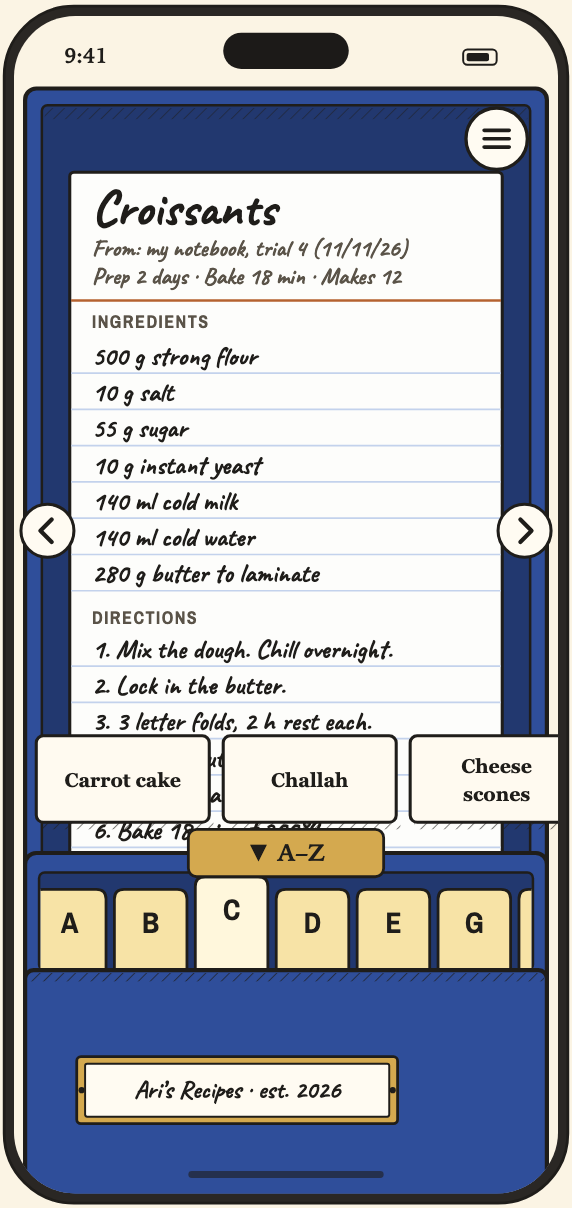
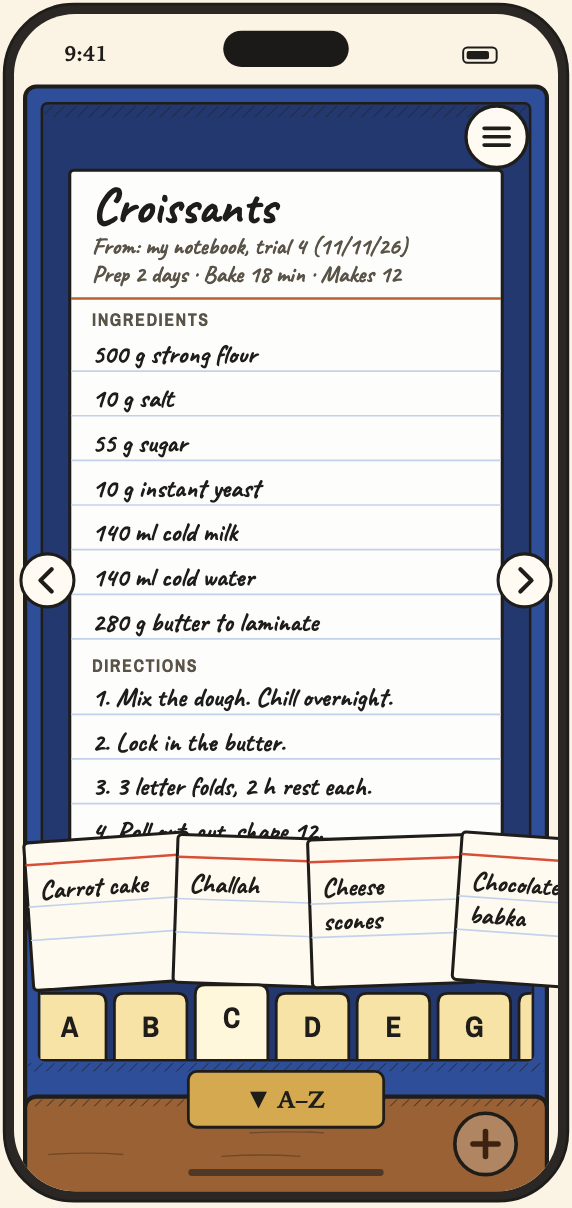
design: Phone Plate v3, drawer recipe box and plus button; decision 003 updated

diff --git a/design/phone/sections/02-box.html b/design/phone/sections/02-box.html
@@ -1,23 +1,18 @@
 <section id="pb-sec" aria-labelledby="h-pb">
   <span class="label" id="h-pb">02 · The recipe box on a phone</span>
   <div class="sec-body">
-    <h3>The box, retracted: three ways</h3>
-    <p class="note"><b>Ari's note on 003:</b> the open box was about half the screen with the tabs a quarter of it. Now the box is retracted by default and the lid card fills the screen. This changes decision 003 (tabs always showing). Every option has the new ‹ › arrows at the card's edges and the round wooden + above the pull (visible only in the retracted state). Top: retracted. Under each: pulled out.</p>
+    <h3>The box with a drawer</h3>
+    <p class="note"><b>The drawer is the pick (Ari, 11/17).</b> The lid card fills the screen, with ‹ › arrows at its edges for the previous and next card. A short strip of brown wood sits at the bottom with the brass "▲ A–Z" pull and a small round wooden + for a new recipe. This changes decision 003: the tabs are not always showing, and the + sits in the strip, not over the card. Swipe up or tap the pull to bring the tabs out; the tabs say what the box is, so there is no label.</p>
     <div class="pbo">
-      <div><h3>1 · Drawer</h3><figure id="pb-o1"></figure><p class="note"><b>The body slides out of sight.</b> Only a wooden lip with a brass pull "▲ A–Z" peeks up. Swipe up or tap it.</p>
-        <h3>1 · pulled out</h3><figure id="pb-o1-out" class="pbsm"></figure><p class="note">The body is about a quarter of the screen; tabs in one sideways-scrolling row.</p><p class="addr">/box/croissants</p></div>
-      <div><h3>2 · Tab strip</h3><figure id="pb-o2"></figure><p class="note"><b>One thin row of letter tabs</b> along the bottom, scrolling sideways. No box front at all.</p>
-        <h3>2 · a letter tapped</h3><figure id="pb-o2-out" class="pbsm"></figure><p class="note">Tap C and the fan rises over the lid; the + hides.</p><p class="addr">/box/croissants</p></div>
-      <div><h3>3 · Handle</h3><figure id="pb-o3"></figure><p class="note"><b>Just a small wooden tab</b> "Recipes ▲", centred at the bottom edge.</p>
-        <h3>3 · pulled up</h3><figure id="pb-o3-out" class="pbsm"></figure><p class="note">A sheet with the fan and the two staggered tab rows rises from the handle.</p><p class="addr">/box/croissants</p></div>
+      <div><h3>Tucked away</h3><figure id="pb-o1"></figure><p class="addr">/box/croissants</p></div>
+      <div><h3>Pulled out</h3><figure id="pb-o1-out"></figure><p class="addr">/box/croissants</p><p class="note">One row of short tabs scrolls sideways. The + stays in the brown strip under the tabs.</p></div>
     </div>
-    <ol class="qs"><li><b>Question for Ari:</b> Retracting box: 1, 2 or 3?</li></ol>
 
     <div class="phones">
       <div><h3>Add a recipe: the +</h3><figure id="pb-add"></figure><p class="addr">/box/croissants</p>
-        <p class="note"><b>The + opens a small menu with three choices.</b> Wording set 1 (drawn): "Type it in / From a web address / Scan a card". Wording set 2: "Write it / Paste a link / Photograph a card". Ari isn't committed to the words.</p></div>
+        <p class="note"><b>The + in the brown strip opens a small menu that rises from it, with three choices.</b> Wording set 1 (drawn): "Type it in / From a web address / Scan a card". Wording set 2: "Write it / Paste a link / Photograph a card". Ari isn't committed to the words.</p></div>
       <div><h3>Fan, with the drawer pulled out</h3><figure id="pb-fan"></figure><p class="addr">/box/croissants</p>
-        <p class="note"><b>Tab C tapped.</b> Title-only cards rise above the tabs and scroll sideways; the open tab is lifted; the lid is not dimmed and the + is hidden. Tap the tab again to close.</p></div>
+        <p class="note"><b>Tab C tapped.</b> Small index cards fan up from behind the tabs, slightly overlapping, and scroll sideways. The tabs keep their short height; the open tab lifts a few pixels and turns cream. The lid is not dimmed. Tap the tab again to close.</p></div>
       <div><h3>The ☰ menu</h3><figure id="pb-menu"></figure><p class="addr">/box/croissants</p>
         <p class="note"><b>Plain body font</b> (Ari's note: no handwriting in the menu). Sections: your name, Add recipe, View (Simple list), Sign out.</p></div>
       <div><h3>Simple list</h3><figure id="pb-simple"></figure><p class="addr">/box/croissants</p>
@@ -38,9 +33,9 @@
     </div>
   </div>
 </section>
-<style>.pbo{display:grid;gap:18px;grid-template-columns:repeat(3,minmax(0,1fr));align-items:start}.pbo>div,.pbcv>div,.pbah>div,.pba{display:grid;gap:6px;align-content:start;min-width:0}.pbsm{max-width:62%}
+<style>.pbo{display:grid;gap:18px;grid-template-columns:repeat(2,minmax(0,1fr));align-items:start;max-width:620px}.pbo>div,.pbcv>div,.pbah>div,.pba{display:grid;gap:6px;align-content:start;min-width:0}
 .pbcv{display:grid;gap:22px;grid-template-columns:minmax(0,1fr) minmax(0,3fr);align-items:start}.pbah{display:grid;gap:18px;grid-template-columns:minmax(0,1fr) minmax(0,2fr);align-items:start}.pbcv figure,.pbo figure{border:0;background:none}
-@media(max-width:900px){.pbcv,.pbah,.pbo{grid-template-columns:minmax(0,1fr)}.pbsm{max-width:100%}}</style>
+@media(max-width:900px){.pbcv,.pbah,.pbo{grid-template-columns:minmax(0,1fr)}}</style>
 <script>
 (function () {
   var CR = { t: "Croissants", src: "From: my notebook, trial 4 (11/11/26)", meta: "Prep 2 days · Bake 18 min · Makes 12",
@@ -61,7 +56,7 @@
   function pl(x, y, w, h, t, fs) { return R(x, y, w, h, "var(--card)", 2.2, h / 2) + T(x + w / 2, y + h / 2 + fs * 0.33, t, H(fs, 700), MID); }
 
   function U(sz, w, col) { return "font:" + (w || 400) + " " + sz + "px var(--font-body);fill:" + (col || "var(--ink)"); }
-  function plus(cx, cy) { return hatch(cx - 18, cy + 20, 40, 6, 0.5) + reg("circle", 'cx="' + cx + '" cy="' + cy + '" r="26"', "var(--wood)", 2.6) + line("M" + (cx - 11) + " " + cy + " h22 M" + cx + " " + (cy - 11) + " v22", 4.4, 1, "#fff7dc"); }
+  function plus(cx, cy) { return reg("circle", 'cx="' + cx + '" cy="' + cy + '" r="22"', "var(--wood-hi)", 2.6) + line("M" + (cx - 9) + " " + cy + " h18 M" + cx + " " + (cy - 9) + " v18", 4, 1, "#3c2210"); }
   function arrows(y) { return [[24, -1], [366, 1]].map(function (a) { return reg("circle", 'cx="' + a[0] + '" cy="' + y + '" r="19"', "var(--card)", 2.2) + line("M" + (a[0] - 3 * a[1]) + " " + (y - 8) + " l" + (8 * a[1]) + " 8 l" + (-8 * a[1]) + " 8", 3); }).join(""); }
   function lidCard(cb, pitch) {
     var x0 = 40, x1 = 350, top = 112, xl = 56, body = "", s = R(x0, top, x1 - x0, cb - top, "var(--page)", 2.2), y;
@@ -82,26 +77,22 @@
       T((x + TW / 2).toFixed(1), y + (front ? 29 : 31), LET[i], "font:700 21px var(--font-label);fill:var(--ink)", MID);
   }
   function stag(open, yb, yf) { var s = "", i; for (i = 1; i < LET.length; i += 2) s += tab(i, 0, 0, yb, yf); for (i = 0; i < LET.length; i += 2) s += i === open ? tab(i, 9, true, yb, yf) : tab(i, 0, 0, yb, yf); return s; }
-  function row(y, open, w) { var s = ""; w = w || 52; LET.forEach(function (c, i) { var x = 14 + i * (w + 6), t = i === open ? 9 : 0;
-    s += reg("path", 'd="M' + x + " " + (y + 90) + " V" + (y + 7 - t) + " q0 -7 7 -7 h" + (w - 14) + " q7 0 7 7 V" + (y + 90) + ' Z"', i === open ? "#fff7dc" : "var(--custard)", 2) + T(x + w / 2, y + 31 - t, c, "font:700 21px var(--font-label);fill:var(--ink)", MID); }); return s; }
+  function row(y, open, w) { var s = ""; w = w || 52; LET.forEach(function (c, i) { var x = 14 + i * (w + 6), t = i === open ? 6 : 0;
+    s += reg("path", 'd="M' + x + " " + (y + 48) + " V" + (y + 7 - t) + " q0 -7 7 -7 h" + (w - 14) + " q7 0 7 7 V" + (y + 48) + ' Z"', i === open ? "#fff7dc" : "var(--custard)", 2) + T(x + w / 2, y + 31 - t, c, "font:700 21px var(--font-label);fill:var(--ink)", MID); }); return s; }
   function chips(y) {
     var s = "";
-    C_CARDS.forEach(function (t, k) { var x = 16 + k * 134, w = t.split(" "), l1 = t, l2 = "";
+    C_CARDS.forEach(function (t, k) { var x = 14 + k * 100, w = t.split(" "), l1 = t, l2 = "", rot = [-4, 2, -2, 4, -3, 3][k % 6];
       if (t.length > 11 && w.length > 1) { l1 = w[0]; l2 = w.slice(1).join(" "); if (w.length > 2) { l1 = w[0] + " " + w[1]; l2 = w[2]; } }
-      s += hatch(x + 3, y + 62, 124, 5, 0.6) + R(x, y, 124, 62, "#fffaf0", 2.2, 5) + T(x + 62, y + (l2 ? 27 : 37), l1, "font:600 14px Georgia,serif;fill:var(--ink)", MID) + (l2 ? T(x + 62, y + 47, l2, "font:600 14px Georgia,serif;fill:var(--ink)", MID) : ""); });
+      s += '<g transform="rotate(' + rot + " " + (x + 59) + " " + (y + 104) + ')">' + hatch(x + 3, y + 3, 118, 104, 0.35) + R(x, y, 118, 106, "#fffaf0", 2.2, 3) + line("M" + (x + 1) + " " + (y + 16) + " H" + (x + 117), 1.8, 0.9, RED) +
+        line("M" + (x + 1) + " " + (y + 46) + " H" + (x + 117), 1.2, 1, RULE) + line("M" + (x + 1) + " " + (y + 70) + " H" + (x + 117), 1.2, 1, RULE) +
+        T(x + 9, y + 41, l1, H(19, 700)) + (l2 ? T(x + 9, y + 65, l2, H(19, 700)) : "") + "</g>"; });
     return s;
   }
-  function pull(cx, cy, w, t) { return R(cx - w / 2, cy - 17, w, 34, "var(--brass)", 2, 6) + T(cx, cy + 6, t, U(17, 700), MID); }
-  function lip() { return R(8, 726, 374, 140, "var(--wood)", 3, 8) + grain(14, 740, 360, 60, 3) + hatch(10, 728, 370, 5, 0.6) + pull(195, 728, 140, "▲ A–Z"); }
-  function drawerOut(open) { var y0 = 600;
-    return R(8, y0, 374, 260, "var(--blue)", 3, 8) + R(18, y0 + 14, 354, 70, "var(--blue-back)", 1.8, 4) + clipTo(19, y0 + 15, 371, y0 + 83, row(y0 + 26, open, 52)) +
-      R(8, y0 + 84, 374, 180, "var(--blue)", 3, 6) + hatch(10, y0 + 86, 370, 6, 0.7) + pull(195, y0, 140, "▼ A–Z") + brassLabel(160, 770, 230, 48, "Ari’s Recipes · est. 2026", 18) + (open == null ? plus(345, 770) : ""); }
-  function strip(open) { return R(8, 706, 374, 160, "var(--blue-back)", 3, 8) + hatch(10, 708, 370, 5, 0.6) + clipTo(9, 709, 381, 844, row(722, open, 46).replace(/M(\d+)/g, "M$1")); }
-  function handle() { return reg("path", 'd="M120 812 V772 q0 -10 10 -10 h130 q10 0 10 10 V812 Z"', "var(--wood)", 2.6) + grain(124, 770, 142, 36, 9) + T(195, 794, "Recipes ▲", U(18, 700, "#fff7dc"), MID); }
-  function sheet() { var y0 = 470;
-    return R(8, y0, 374, 400, "var(--blue)", 3, 14) + R(18, y0 + 18, 354, 206, "var(--blue-back)", 1.8, 4) + clipTo(19, y0 + 19, 371, y0 + 223, chips(y0 + 30)) + stag(2, y0 + 126, y0 + 170) +
-      R(8, y0 + 218, 374, 180, "var(--blue)", 3, 6) + hatch(10, y0 + 220, 370, 6, 0.7) + reg("path", 'd="M120 ' + (y0 + 14) + ' V' + (y0 - 22) + ' q0 -10 10 -10 h130 q10 0 10 10 V' + (y0 + 14) + ' Z"', "var(--wood)", 2.6) + T(195, y0 - 4, "Recipes ▼", U(18, 700, "#fff7dc"), MID) +
-      brassLabel(160, 770, 230, 48, "Ari’s Recipes · est. 2026", 18) + plus(345, 770); }
+  function pull(cx, cy, w, t) { return R(cx - w / 2, cy - 20, w, 40, "var(--brass)", 2, 6) + T(cx, cy + 6, t, U(17, 700), MID); }
+  function trim() { return R(8, 776, 374, 100, "var(--wood)", 3, 8) + grain(14, 790, 360, 40, 3) + hatch(10, 778, 370, 5, 0.6) + pull(195, 778, 140, "▲ A–Z").replace("▲", "▲") + plus(338, 810); }
+  function lip(down) { return trim().replace("▲ A–Z", down ? "▼ A–Z" : "▲ A–Z"); }
+  function drawerOut(open) { var y0 = 650;
+    return R(8, y0, 374, 140, "var(--blue)", 3, 8) + R(18, y0 + 12, 354, 88, "var(--blue-back)", 1.8, 4) + (open != null ? chips(590) : "") + clipTo(19, y0 + 13, 371, y0 + 99, row(y0 + 52, open, 52)) + hatch(10, y0 + 102, 370, 6, 0.6) + lip(true); }
   function menuPanel(items, x, y, w, head) {
     var s = hatch(x + 4, y + 4, w, items.length * 48 + (head ? 0 : 12), 0.45), h = head ? 400 : items.length * 48 + 12; if (head) return menuFull();
     s += R(x, y, w, h, "var(--card)", 2.6, 10);
@@ -114,7 +105,10 @@
     s += T(tx, 126, "ACCOUNT", LB(13)) + T(tx, 158, "Ari", U(24, 700)) + div(176) + T(tx, 202, "ADD RECIPE", LB(13));
     rows.forEach(function (r, i) { var y = 212 + i * 48; s += (i ? div(y) : "") + T(tx, y + 31, r, U(18, 500)) + line("M" + (x + w - 32) + " " + (y + 16) + " l8 8 l-8 8", 2.2, 0.7); });
     return s + div(356) + T(tx, 382, "VIEW", LB(13)) + T(tx, 422, "Simple list", U(18, 500)) + R(x + w - 66, 404, 46, 26, "var(--page)", 2, 13) + '<circle cx="' + (x + w - 53) + '" cy="417" r="9" style="fill:var(--ink-soft);stroke:var(--ink);stroke-width:1.4"/>' + div(444) + T(tx, 476, "Sign out", U(18, 600, "var(--orange-text)")); }
-  var L1 = function (m) { return lid(696, 626, 26, m); };
+  function addMenu() { var x = 182, y = 594, w = 200, h = 156, s = hatch(x + 4, y + 4, w, h, 0.45) + R(x, y, w, h, "var(--card)", 2.6, 10);
+    ["Type it in", "From a web address", "Scan a card"].forEach(function (t, i) { var yy = y + 6 + i * 48; s += (i ? line("M" + (x + 10) + " " + yy + " H" + (x + w - 10), 1.4, 1, "var(--rule)") : "") + T(x + 18, yy + 31, t, U(18, 600)); });
+    return s + poly("330,749 346,749 338,762", "var(--card)", 2); }
+  var L1 = function (m) { return lid(748, 700, 32, m); };
 
   /* ---------- Card View ---------- */
   function band(x, y, w, h) { return reg("rect", 'x="' + x + '" y="' + y + '" width="' + w + '" height="' + h + '" rx="4"', "var(--yellow)", 2); }
@@ -154,15 +148,11 @@
 
   PLATE.add(function () {
     function put(id, inner, label, opt) { document.getElementById(id).innerHTML = phone(inner, label, Object.assign({ bg: "var(--paper)" }, opt || {})); }
-    put("pb-o1", L1() + plus(340, 672) + lip(), "Option 1, drawer, retracted: lid card fills the screen, a wooden lip with a brass pull A to Z at the bottom, round wooden plus above it");
-    put("pb-o1-out", L1() + drawerOut(null), "Option 1, drawer pulled out: one sideways-scrolling row of tabs");
-    put("pb-o2", L1() + plus(340, 672) + strip(null), "Option 2, tab strip: one thin row of letter tabs along the bottom");
-    put("pb-o2-out", L1() + chips(640) + strip(2), "Option 2, tab C tapped: the fan rises over the lid");
-    put("pb-o3", lid(730, 690, 30) + plus(340, 780) + handle(), "Option 3, handle: a small wooden tab Recipes at the bottom edge");
-    put("pb-o3-out", lid(730, 690, 30) + sheet(), "Option 3, sheet pulled up with the fan and two staggered rows of tabs");
-    put("pb-add", L1() + plus(340, 672) + lip() + menuPanel(["Type it in", "From a web address", "Scan a card"], 150, 480, 232), "The plus tapped: a small menu with three choices");
-    put("pb-fan", L1() + drawerOut(2).replace("", "") + chips(516), "Tab C tapped with the drawer out: title-only cards rise above the tabs");
-    put("pb-menu", L1(true) + plus(340, 672) + lip() + menuFull(), "The menu in the body font: account name, Add recipe, Simple list switch, Sign out");
+    put("pb-o1", L1() + lip(), "The box tucked away: lid card fills the screen, a short wooden strip at the bottom with a brass pull A to Z and a small round plus");
+    put("pb-o1-out", L1() + drawerOut(null), "The drawer pulled out: one sideways-scrolling row of short tabs above the wooden strip");
+    put("pb-add", L1() + lip() + addMenu(), "The plus tapped: a small menu with three choices rises from it");
+    put("pb-fan", L1() + drawerOut(2), "Tab C tapped: small index cards fan up from behind the tabs");
+    put("pb-menu", L1(true) + lip() + menuFull(), "The menu in the body font: account name, Add recipe, Simple list switch, Sign out");
     put("pb-simple", simple(), "Simple list: letter headings and recipe titles, no wood", { bg: "var(--page)" });
     put("pb-b", cvB(), "Card View B: the recipe as a landscape index card drawn sideways on the upright phone");
     put("pb-a", cvUp(), "Card View A upright: pinned ingredients band, steps scroll under, one step marked you are here", { bg: "var(--page)" });

diff --git a/design/phone/sections/00-questions.html b/design/phone/sections/00-questions.html
@@ -1,15 +1,11 @@
 <section id="q-sec" aria-labelledby="q-h">
-  <span class="label" id="q-h">00 · Questions for Ari (version 2)</span>
+  <span class="label" id="q-h">00 · Questions for Ari (version 3)</span>
   <div class="sec-body">
     <ol class="qs">
-      <li><b>Recipe box that tucks away:</b> <a href="#pb-o1">1 drawer</a>, <a href="#pb-o2">2 tab strip</a> or <a href="#pb-o3">3 handle</a>?</li>
-      <li><b>Card View:</b> <a href="#pb-b">B always sideways</a>, <a href="#pb-a">A any way you hold it</a>, or both?</li>
-      <li><b>Add a recipe:</b> are the <a href="#pb-add">three choices</a> right, and which words?</li>
-      <li><b>A new name for Jot?</b> <a href="#pk-names">Six names</a>.</li>
-      <li><b>Which jot button?</b> <a href="#pk-icons">A to F</a> (A, the pencil, is OK).</li>
-      <li><b>Recently:</b> <a href="#pk-recent">one row of chips</a> when you tap the bar. Few enough?</li>
-      <li><b>Saving:</b> should the app keep unsaved typing on the phone until a save goes through? (A build task, not a drawing.)</li>
+      <li><b>Card View:</b> <a href="#pb-b">B always sideways</a> (you lean this way), <a href="#pb-a">A any way you hold it</a>, or both?</li>
+      <li><b>What the add button adds:</b> today it adds an idea or a Next up line. Should it also offer a new recipe (the box's add) and a new trial?</li>
+      <li><b>Its name:</b> Add, Quick add, Note or Jot (<a href="#pk-names">all six</a>)? Changing it later is easy: it is a word in a few places, not in any web address.</li>
     </ol>
-    <p class="note">Changed in version 2: no tape labels on the board, notebook or box; Recently row and a shorter find list; Clear done on Next up; the recipe log on a notebook page; no COOKBOOKS tape; Contents top left; sign in, sign up, front page and not found on plain paper; the not found book shows its stitches; the error card no longer says your work is safe; the box menu in the plain font; a + for new recipes; a bigger "you are here"; Simple list drawn.</p>
+    <p class="note">Version 3: the recipe box is the drawer (shorter wooden strip, the + in the strip beside "▲ A–Z", no box label when pulled out, tabs stay short when a letter is tapped, the fan is small index cards). The add button is a plus everywhere. Decision 003 is updated to match.</p>
   </div>
 </section>

diff --git a/design/phone/base/phone.js b/design/phone/base/phone.js
@@ -25,11 +25,11 @@ function phTop(title, opt) {
     T(16, 84, "‹ Kitchen", "font:700 22px var(--font-hand);fill:var(--blue)") +
     T(374, 84, title, "font:700 26px var(--font-hand);fill:var(--ink)", 'text-anchor="end"');
 }
-/* The jot button: yellow, round, bottom right, on the kitchen and on views where it covers nothing. */
+/* The add button (was the jot pencil; Ari 11/17: a plus, like every other place you add something new).
+   Yellow, round, bottom right, on the kitchen and on views where it covers nothing. */
 function phJot(x, y) { x = x || 330; y = y || 750;
   return hatch(x - 22, y + 18, 50, 10, 0.5) + reg("circle", 'cx="' + x + '" cy="' + y + '" r="30"', "var(--yellow)", 2.6) +
-    '<g transform="rotate(45 ' + x + " " + y + ')">' + reg("path", 'd="M' + (x - 5) + " " + (y - 15) + " h10 v22 l-5 9 l-5 -9 Z\"", "var(--card)", 2.2) +
-    line("M" + (x - 5) + " " + (y + 7) + " h10 M" + (x - 5) + " " + (y - 9) + " h10", 1.8) + "</g>"; }
+    line("M" + (x - 12) + " " + y + " H" + (x + 12) + " M" + x + " " + (y - 12) + " V" + (y + 12), 4); }
 /* The web address under a phone drawing, as in Plate XI. */
 function phAddr(path) { return '<p class="addr">' + path + "</p>"; }
 document.head.insertAdjacentHTML("beforeend", "<style>.phones{display:grid;gap:22px;grid-template-columns:repeat(auto-fit,minmax(min(100%,230px),1fr));align-items:start}" +

diff --git a/design/phone/sections/01-kitchen.html b/design/phone/sections/01-kitchen.html
@@ -22,8 +22,8 @@
     <ol class="qs"><li><b>Which name?</b> Jot, Note, Scribble, Quick add, Pin it or Idea.</li></ol>
     <h3>The jot button, six ways</h3>
     <figure id="pk-icons"></figure>
-    <p class="note"><b>Same yellow round button, 60 px.</b> A is the pencil now on the kitchen.</p>
-    <ol class="qs"><li><b>Which button?</b> (A, the pencil, is OK)</li></ol>
+    <p class="note"><b>Same yellow round button, 60 px.</b> Picked (Ari, 11/17): C, the plus, like every other place you add something new. The kitchen now uses it.</p>
+    <p class="note">Settled: the plus.</p>
   </div>
 </section>
 <script>

diff --git a/docs/decisions/003-phone-recipe-box-design.md b/docs/decisions/003-phone-recipe-box-design.md
@@ -89,3 +89,16 @@ Each item was a choice between the options below; the chosen one is in **Decisio
 
 - The Appearance section is built (dark mode picker, Wild West, tab colours).
 - Testing on a real phone shows the staggered tabs are too small to tap (R1-AC4), or the pinned ingredient band takes too much of a short screen.
+
+## Update 2026-11-17: Phone Plate notes (Ari)
+
+Drawn in the Phone Plate (https://claude.ai/artifact/8tvBLbfxEsEL48AzuMNeGy, `design/phone/sections/02-box.html`). Where this disagrees with the sections above, this wins.
+
+- **The box tucks away (a drawer).** By default the recipe card in the lid fills the screen. The box body slides down out of sight, leaving a short wooden strip at the bottom with an "▲ A–Z" pull. Swipe up or tap the pull to bring the tabs out (about a quarter of the screen, one row that scrolls sideways). This replaces the always-showing two staggered rows.
+- **Prev/next arrows** ‹ › sit at the card's left and right edges, as on the wide box.
+- **Add:** a small round wooden + in the bottom strip, lower right beside the A–Z pull. It replaces the floating + over the box. It opens three choices: type it in, from a web address, scan a card (words not final).
+- **Tapping a letter** lifts that tab a few px and turns it #fff7dc; tabs never grow taller. The fan rises as small index cards in the plate style, not plain chips.
+- **No box label** when the drawer is pulled out (the engraved label above is dropped on the phone).
+- **The ☰ menu** uses the body font, not the hand font.
+- **"You are here"** is a full-width yellow band with a bold tag of at least 15 px.
+- **Card View:** still open. Ari leans toward the sideways card (ingredients and steps at once) and is not against upright. Decide before the phone box Task issue.

diff --git a/docs/design/PLAN.md b/docs/design/PLAN.md
@@ -215,6 +215,8 @@ Parked. Not drawn, not built until moved up.
 - Review all the starter and sample data (recipes, ideas, references, cookbook) as one pass (Ari, 2026-11-14)
 - Account: theme switch and "show forks" left out of the drawn Account for now (Ari, 2026-11-14); the app has both today
 - Whiteboard suggestions from recent activity (automatic items, wipe, pin). Dropped from Plate X as too fussy
+- Notebook shows the recipe somewhere (phone and wide kitchen), not only each trial's changes (Ari, 2026-11-17)
+- Saving rules and options: when edits save (Save button, as today, or as you type), and whether unsaved typing is kept on the device until a save goes through. Decide before the Task issues for any editing view, since it shapes every form (Ari, 2026-11-17: come back to this)
 
 ## Where things are
 - Answers so far: memory `kitchen-layout`, and `.cursor/handoffs/NEXT.md`
